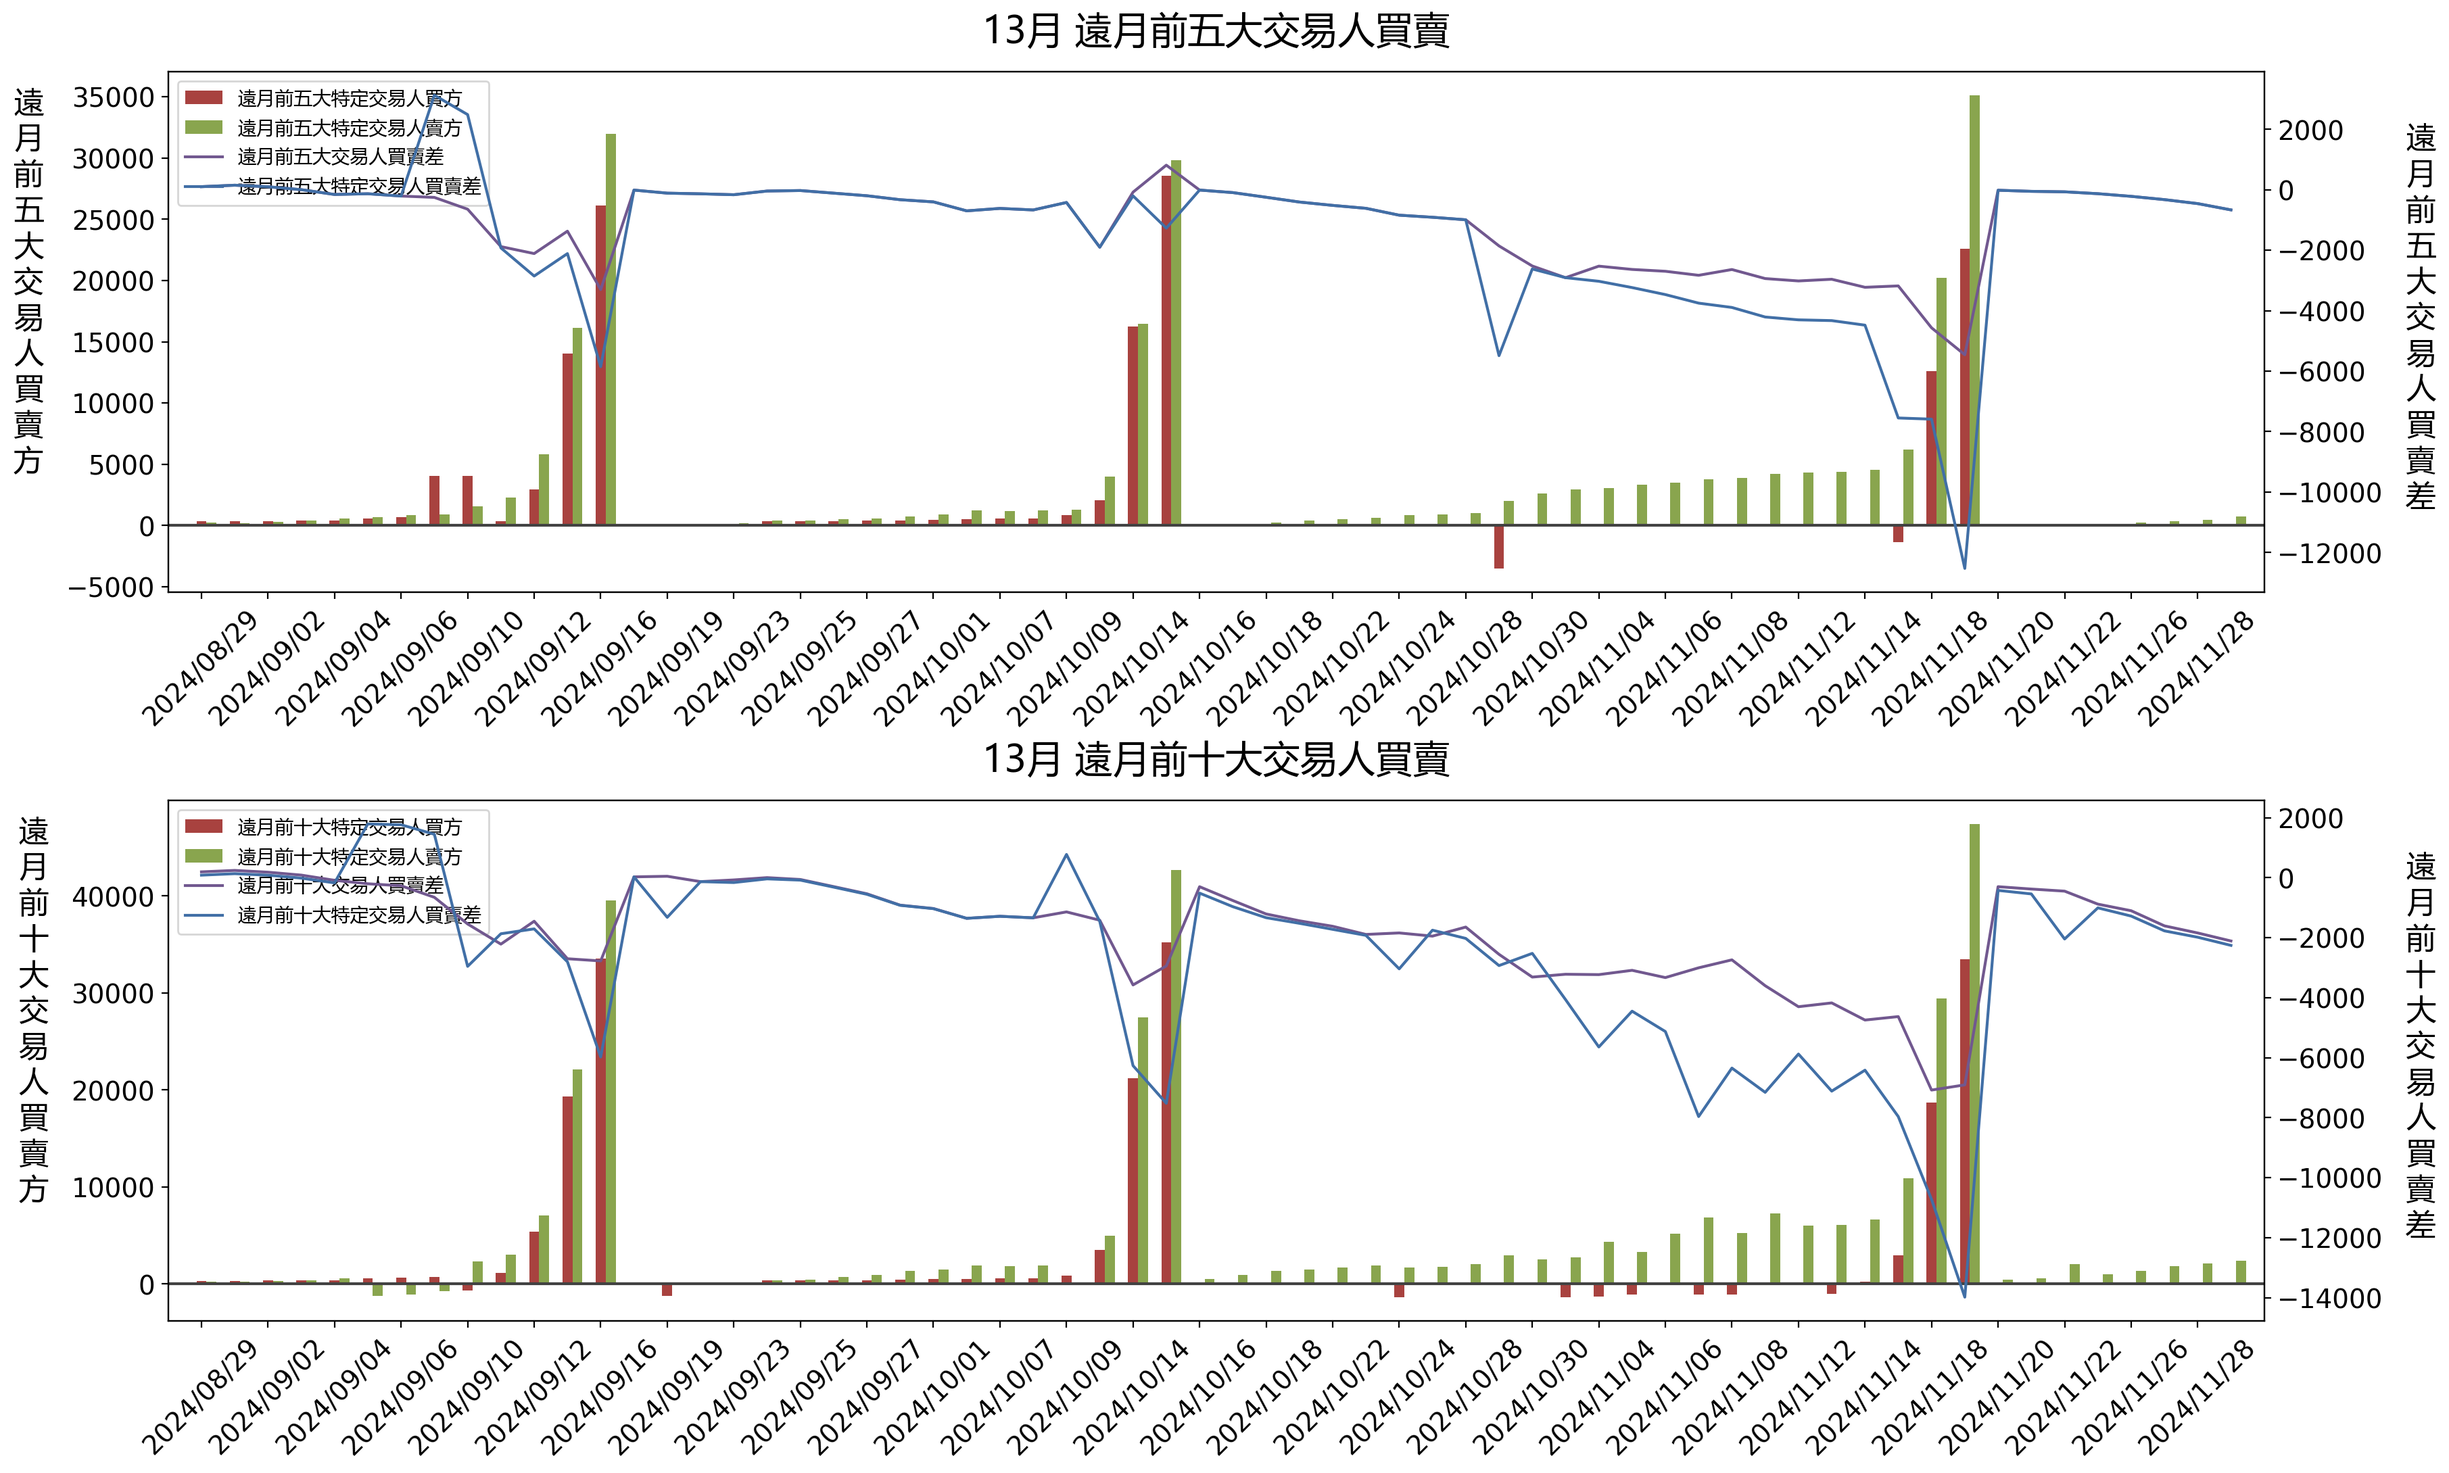
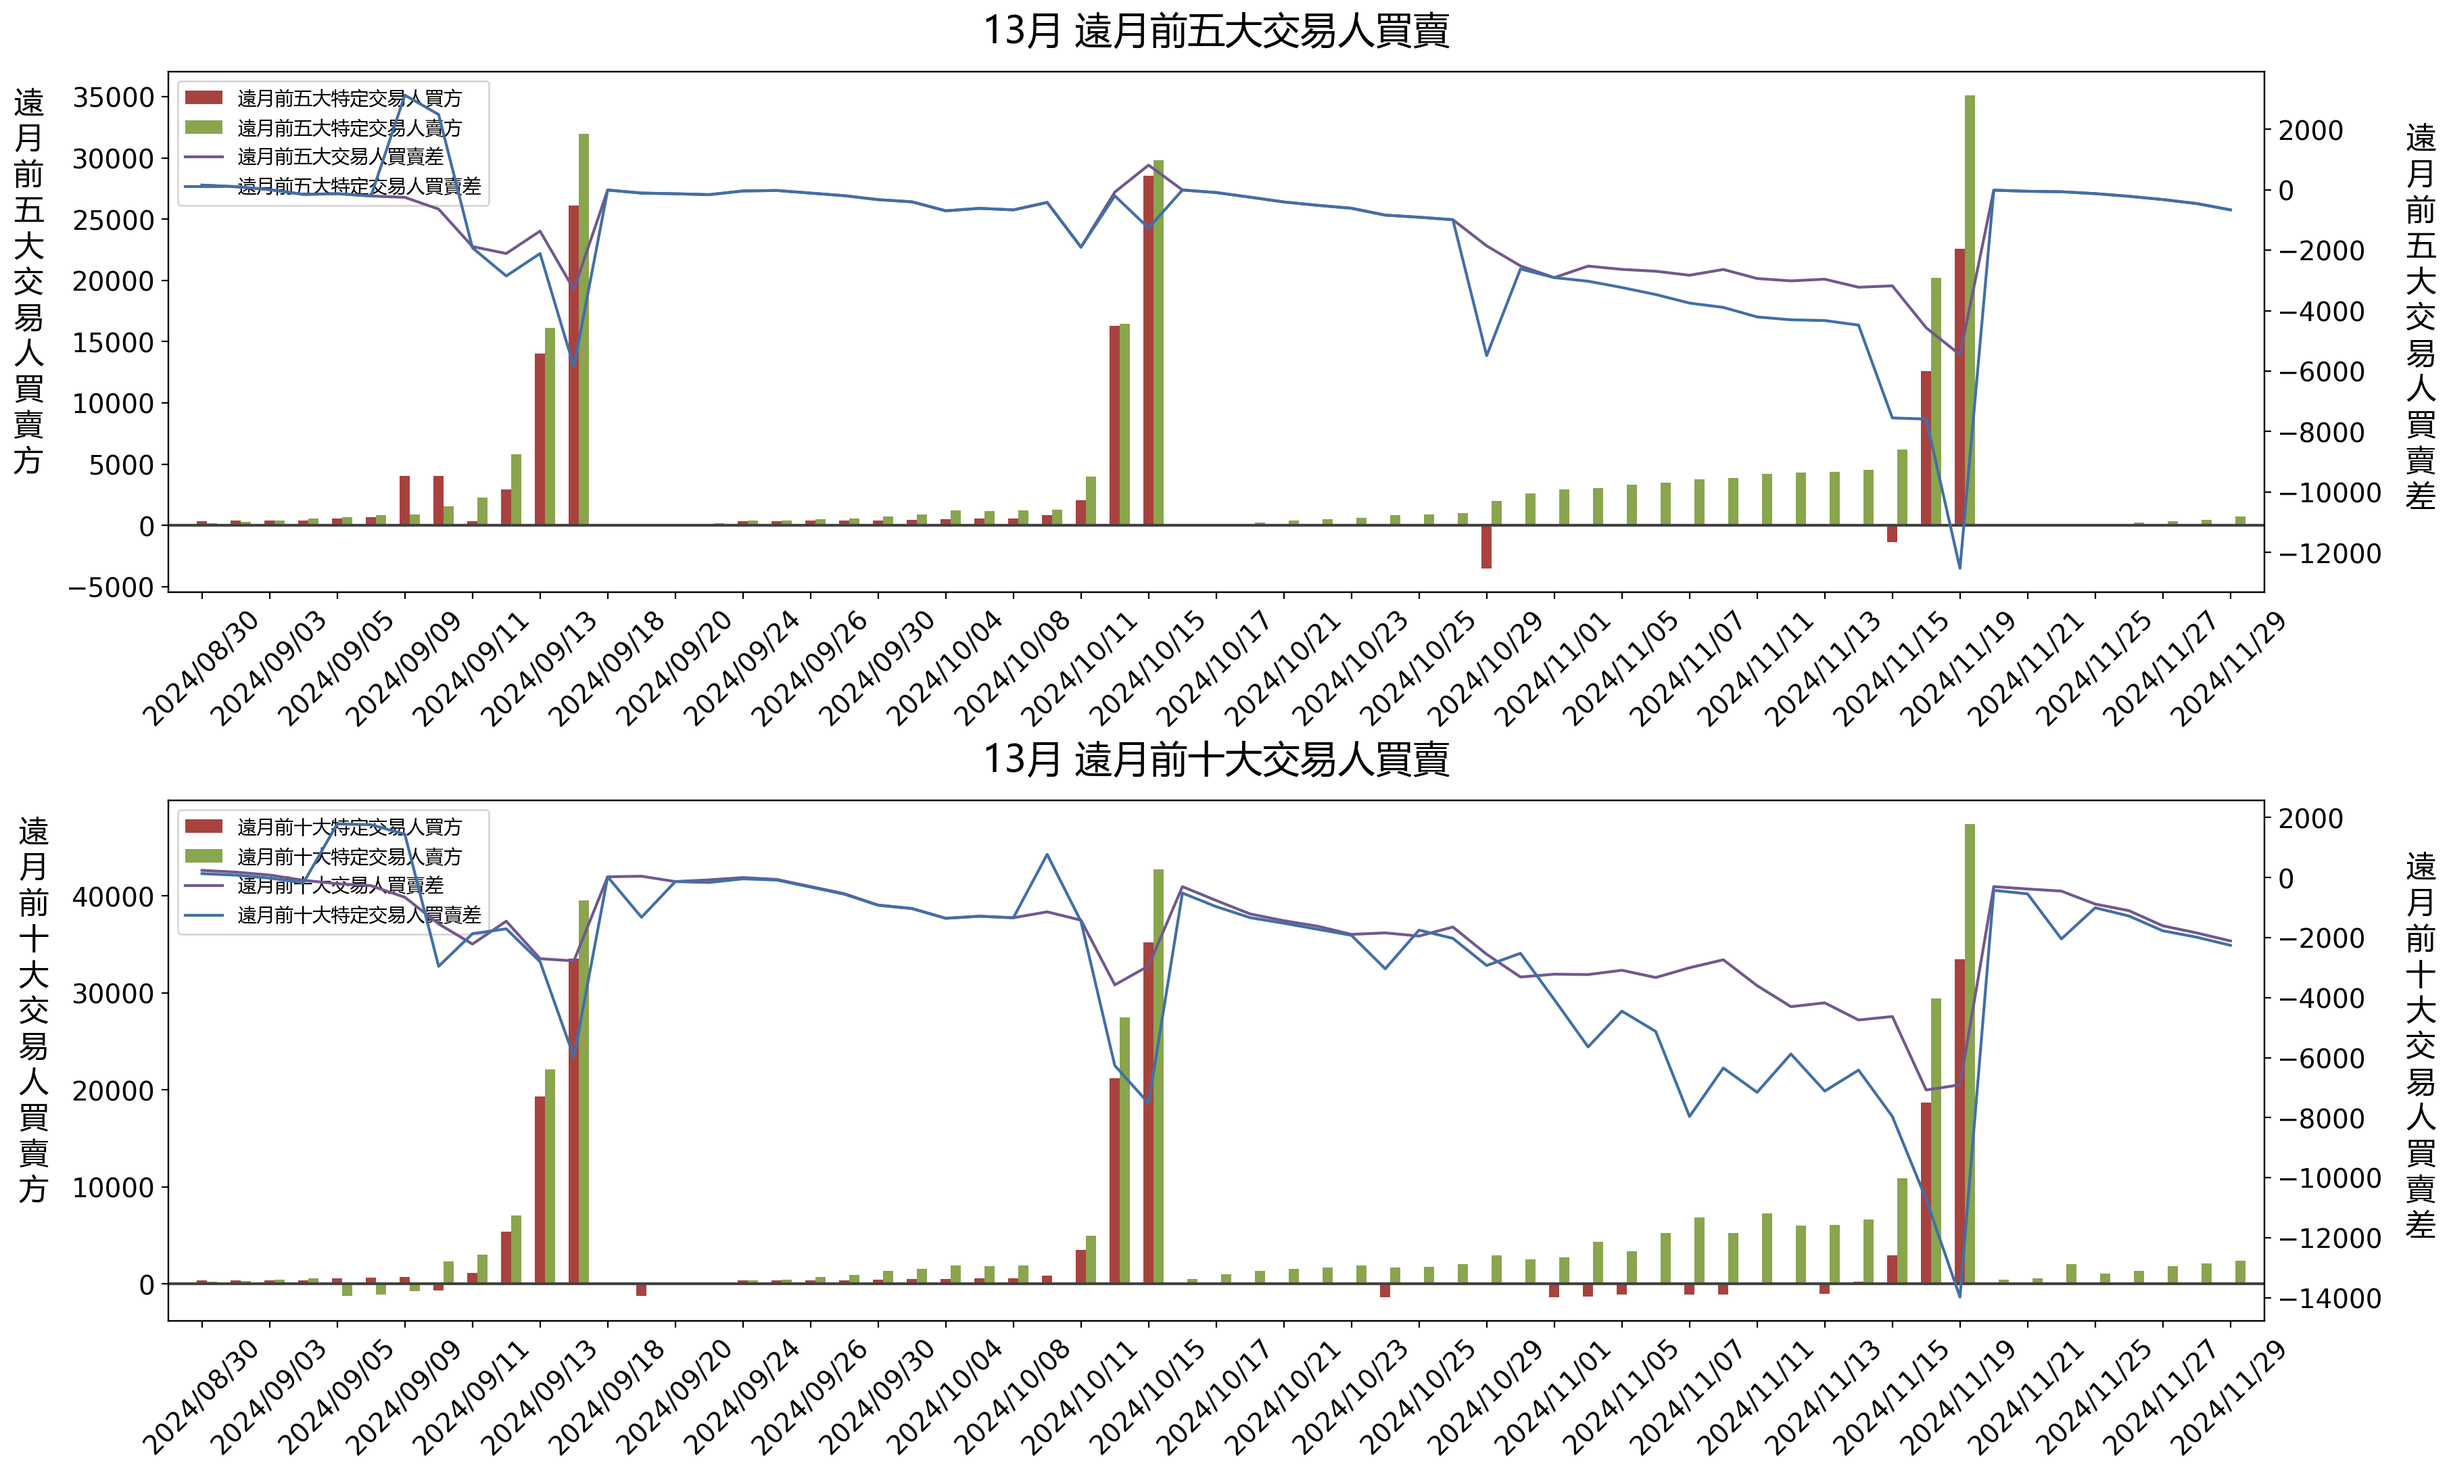
更新時間: Sat Nov 30 16:33:14 CST 2024

diff --git a/README.md b/README.md
@@ -1,12 +1,12 @@
-## 20241129 台指期「預估換倉成本」
+## 20241130 台指期「預估換倉成本」
 ![](images/txfcost.png)
 
-## 20241129 台指期「散戶小台多空比」
+## 20241130 台指期「散戶小台多空比」
 ![](images/bbiri.png)
 
-## 20241129 台指選擇權「Put/Call Ratios」
+## 20241130 台指選擇權「Put/Call Ratios」
 ![](images/pcratio.png)
 
-## 20241129 台指期「大額交易人」
+## 20241130 台指期「大額交易人」
 ![](images/blocktrade.png)
 
